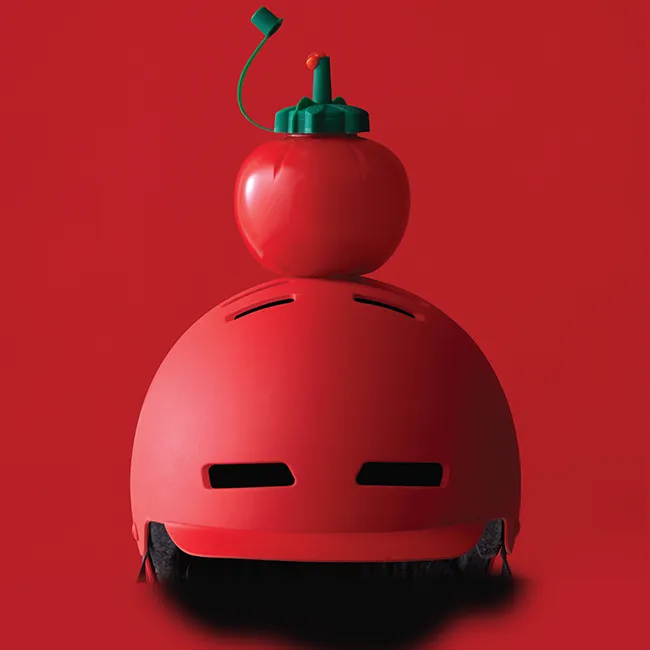
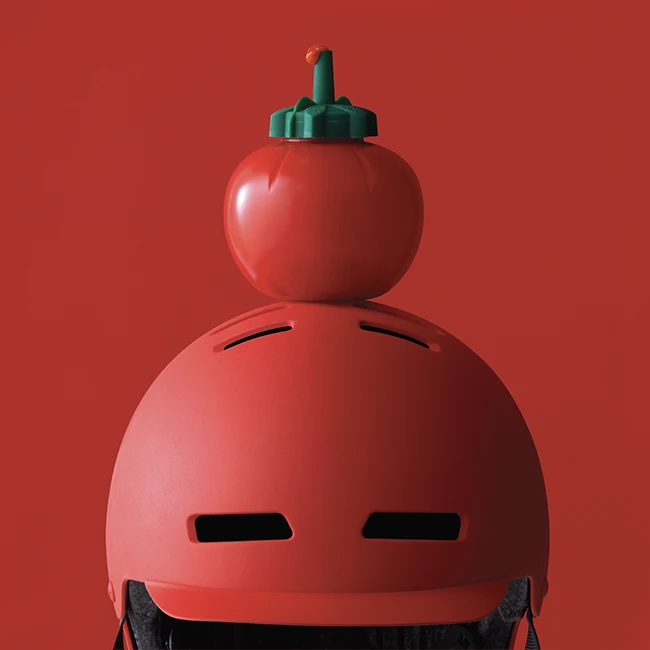
AT Bike Helmets images

Changed region(s): [[0.1538, 0.0, 0.8615, 1.0], [0.2769, 0.6154, 0.3077, 0.6462]]

diff --git a/app/work/at-bike-helmets.php b/app/work/at-bike-helmets.php
@@ -60,9 +60,9 @@
 
 <?php
 	includeHeroImage(
-		HTML_ROOT . '/assets/images/placeholders/m.webp',
-		HTML_ROOT . '/assets/images/placeholders/d.webp',
-		HTML_ROOT . '/assets/images/placeholders/dxl.webp',
+		$img_path . 'AT-helmets-hero_Mobile-732x1182.webp',
+		$img_path . 'AT-helmets-hero_Desktop-1600x800.webp',
+		$img_path . 'AT-helmets-hero_Desktop_XL-2400x1200.webp',
 		$page_title,
 	);
 ?>
@@ -95,22 +95,19 @@
 	</div>
 </section>
 
-<?php
-	includeServiceSectionSlickHW(
-		[
-			[
-				"title" => "Title 1",
-				"mobile" => HTML_ROOT . '/assets/images/placeholders/m.webp',
-				"desktop" => HTML_ROOT . '/assets/images/placeholders/d.webp',
-			],
-			[
-				"title" => "Title 1",
-				"mobile" => HTML_ROOT . '/assets/images/placeholders/m.webp',
-				"desktop" => HTML_ROOT . '/assets/images/placeholders/d.webp',
-			],
-		]
-	);
-?>
+
+<section class="service-section">
+	<div class="container container-xxl">
+		<div id="slick__pill_hw" class="">
+			<div class="pill">
+				<div class="pill__image">
+					<img src="<?=$img_path;?>AT-helmets-lozenge-Mobile-732x512.webp" alt="Out of home advertising" title="Out of home advertising" class="d-md-none">
+					<img src="<?=$img_path;?>AT-helmets-lozenge-XL-Desktop-1576x630.webp" alt="Out of home advertising" title="Out of home advertising" class="d-none d-md-block">
+				</div>
+			</div>
+		</div>
+	</div>
+</section>
 
 <?php
 	includeNextItem($next_page_data['slug'], $next_page_data["company"], $next_page_data["brief"], $next_page_data["thumb_sq"], $next_page_data["gradient"], $next_page_data["tags"]);
